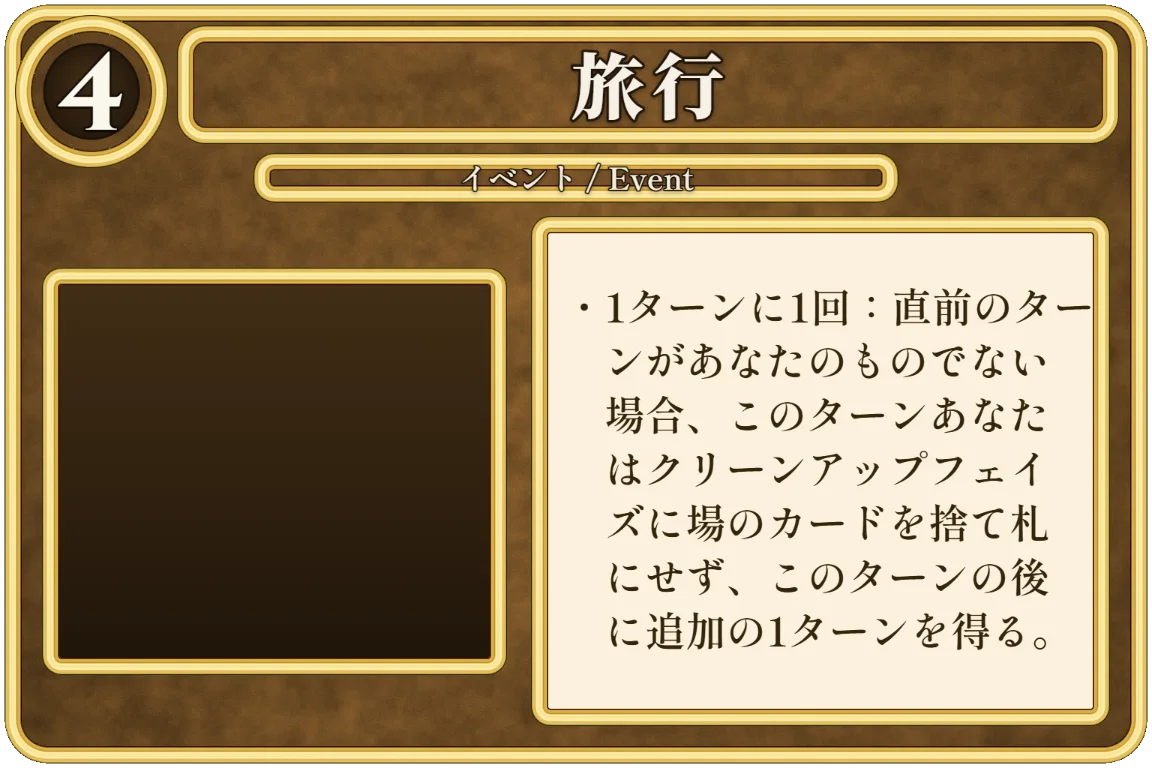
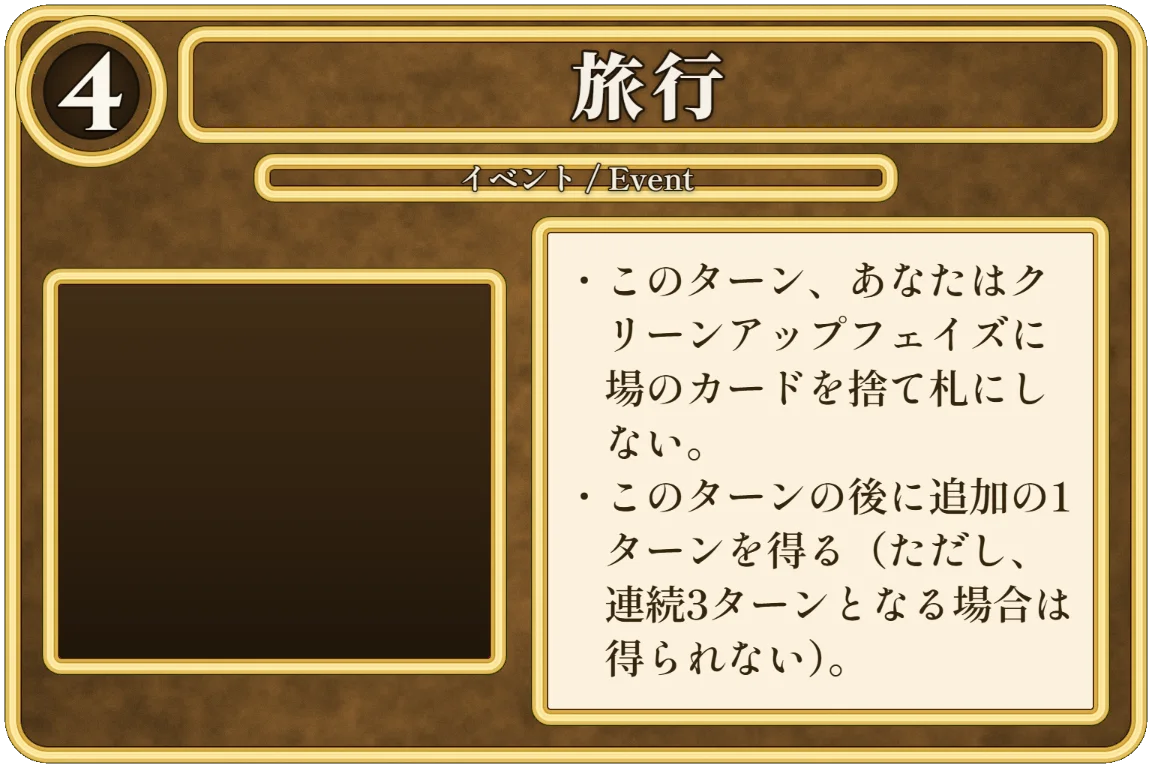
fix(plunder): 旅行(Journey)を2023エラッタ側に統一し、版の選択4件を確定として記録する
**2つのセッションが並行して同じリポジトリを触っていたため、`journey` の版が正反対に決定されていた**
（片方＝2022印刷版／片方＝2023エラッタ）。ユーザーがセッションを1本化し判断を一任したので、
一次資料を直読みで引き直したうえで **2023年9月の Extra turn errata 側**に確定する。

**根拠（この順で重い）**
1. **本アプリは同じ2023エラッタの `mission`（使節団）を既に採用済み**＝`js/engine.js` の
   `ONCE_PER_TURN_EVENTS` に `mission` が無い（§0-26）。**旅行は使節団の完全な同型**
   （イベント／`Once per turn:` が消えた／追加ターン）＝ここだけ旧版だと同じエラッタ内で挙動が割れる。
2. **決定D2（日本語文面は Dominion Online 訳で統一）と噛み合わない**＝日本語wiki（DO訳）の `旅行` は
   **エラッタ側の文面**なので、旧版を採ると「表示は新版・挙動は旧版」になりカードが嘘をつく。
3. **ユーザーは日本語版カードの現物を持っていない**（メモリ `no-physical-dominion-cards`）＝
   印刷物と一致させる実利が無く、実際に触れる公式デジタル（エラッタ側）に合わせるほうがよい。
4. 「3ターン連続不可」は engine に既にある（島民・航海）。旧版の「直前のターンがあなたのものでない場合」は
   engine に無い別機構＝旅行1枚のために新設することになる。
⚠ 反対材料（Print 欄が `Not printed yet`／wiki が `Unofficial FAQ (Post-2023 Errata)` と呼ぶ）も
`docs/research/plunder_rules.md` の D1 に残した。**反転は1行＋カタログ文＋webp 1枚**。

- `js/cards.js`：`journey` の text を DO 訳（エラッタ側）へ。コメントも「`ONCE_PER_TURN_EVENTS` に
  入れるのは `launch` の1枚だけ」に修正。**webp を焼き直し**＋`sw.js` v71→**v72**。
- `docs/research/plunder_rules.md`：冒頭を「要ユーザー確認5件（未決）」→**決定 D1〜D5** に置き換えて再生成。
- `PROGRESS.md`：§0-30 に決定4件と**並行セッション事故の経緯**（再発防止）を記録。
  §4 の journey 決定を差し替え。**「spoils 改名はユーザー未承認」という記述は事実誤認だったので訂正**
  （実際にはユーザーが選択肢から選んでいる。他方のセッションからそのやり取りが見えなかっただけ）。
- `KICKOFF.md`：次のタスクを**段階2＝P1（Loot の山の基盤）**に更新。`CLAUDE.md` も現状に追随。

検証＝`npm test` 全40スイート緑（exit 0・整合性5303・不変条件12）／`verify:e2e` 9/9（**webp 560/0**）。

Changed region(s): [[0.5312, 0.3438, 0.9375, 0.875]]

diff --git a/js/cards.js b/js/cards.js
@@ -2303,11 +2303,14 @@
        買う横型（`DOM.LANDSCAPES` 側）。**負債コスト・ポーション費用は1枚も無い＝すべてプレーンなコインのみ**。
        種別は15枚とも `Event` だけ（Attack でも Duration でもない＝堀では防げない／持続の予約を張らない）。
        ⚠ 英語id `plunder` は帝国の分割山カード「鹵獲品」で使用済みなので、プール名は **`plunderexp`**。
-       ⚠ `journey`（旅行）は **2022年12月の印刷版テキスト**を採用（2023年9月の Extra turn errata は
-          英語wiki の Print 欄が `Not printed yet`＝未印刷なので、royal_galley と同じ方針で採らない）。
-          ＝`Once per turn:` を持つので `ONCE_PER_TURN_EVENTS` に入れる側。
-       ⚠ 検証で追記（研究doc 第6章 §4-H）：`ONCE_PER_TURN_EVENTS` に入れるのは **`launch` と `journey` の2枚だけ**。
-          launch＝`"Once per turn" applies to the whole Event.`／journey＝2022版が `Once per turn:` を持つ。
+       ⚠ `journey`（旅行）は **2023年9月の Extra turn errata 側**を採用（決定 D1＝研究doc 冒頭）。
+          ＝`Once per turn:` の前置句は無く、「ただし連続3ターンとなる場合は得られない」を持つ。
+          根拠＝本アプリは**同じ2023エラッタの `mission`（使節団）を既に採用済み**（`ONCE_PER_TURN_EVENTS` に
+          `mission` が無い＝§0-26）で**旅行はその完全な同型**／**日本語文面は Dominion Online 訳で統一（D2）**
+          しており DO の `旅行` は**エラッタ側の文面**なので、旧版を採ると「表示は新版・挙動は旧版」になる。
+          **反転は1行**（`ONCE_PER_TURN_EVENTS` に journey を足し、この text を旧版へ戻す）。
+       ⚠ 検証で追記（研究doc 第6章 §4-H）：`ONCE_PER_TURN_EVENTS` に入れるのは **`launch` の1枚だけ**。
+          launch＝`"Once per turn" applies to the whole Event.`（journey はエラッタで前置句が消えたので入れない）。
           **`deliver` は入れてはいけない**＝Donald X. 明言 `Deliver doesn't have "once per turn," even though
           it does nothing when bought multiple times.`（＝何回でも買えて2枚目以降が空振り）。
           他の12枚も once per turn 表記なし＝同じリストに入れないこと。
@@ -2352,7 +2355,7 @@
     //    本文は研究doc §4-F の「旧テキスト（＝日本語の印刷版）」と逐語一致（＝2022版）。
     //    **「3ターン連続」の文言が入っていたらそれは 2023エラッタ＝誤り**（ここには無い＝正しい）。
     journey: { name: '旅行', nameEn: 'Journey', kind: 'event', expansion: 'plunderexp', cost: 4, debt: 0,
-      text: '1ターンに1回：直前のターンがあなたのものでない場合、このターンあなたはクリーンアップフェイズに場のカードを捨て札にせず、このターンの後に追加の1ターンを得る。' },
+      text: 'このターン、あなたはクリーンアップフェイズに場のカードを捨て札にしない。\nこのターンの後に追加の1ターンを得る（ただし、連続3ターンとなる場合は得られない）。' },
     // Trash 3 cards from your hand. Each other player with 5 or more cards in hand trashes one of them.
     // ⚠ 要確認: 日本語文面だけ Dominion Online 訳（＝日本語wiki）ではなく **印刷版の逐語**を採った。
     //    理由＝この1枚だけ日本語wiki 側の記載が拡張ページの一覧表の省略形（`手札3枚を廃棄する、手札を5枚以上持つ

diff --git a/sw.js b/sw.js
@@ -7,7 +7,7 @@
    - クロスオリジン（Google Fonts / WebSocket）は触らない。
    バージョンを上げると activate で旧キャッシュを全部捨てる。
    ============================================================ */
-const VERSION = 'v71';
+const VERSION = 'v72';
 const CACHE = 'dominion-' + VERSION;
 
 // オフラインに最低限必要なファイル（盤面サムネ含む・約1MB）

diff --git a/docs/research/plunder_rules.md b/docs/research/plunder_rules.md
@@ -4,7 +4,7 @@
 **カタログ（`js/cards.js`）と engine を書くときは、記憶ではなくこの文書を見ること。**
 
 - 発売＝**2022年12月19日**。**印刷は初版のみ（第2刷は無い）**＝2022年12月のテキストが現行。
-  機能エラッタは **Journey 1枚だけ**（2023年9月 Extra turn errata・**未印刷**）＝下記「要ユーザー確認」参照。
+  機能エラッタは **Journey 1枚だけ**（2023年9月 Extra turn errata・**未印刷**）＝**採用すると決定した**（下記 D1）。
 - 内訳＝**500枚**（RGG ルールブック p.2 逐語）＝王国 400（40種×10枚）＋**Loot 30（15種×2枚）**
   ＋ランダマイザー40＋**イベント15**＋**特性(Trait) 15**。
   → **実装対象は 85種**＝縦型（`DOM.CARDS`）55種（王国40＋Loot 15）／横型（`DOM.LANDSCAPES`）30種（イベント15＋特性15）。
@@ -62,9 +62,69 @@
 
 ---
 
-## ✅ この研究で下したユーザー決定
+## ✅ この研究で下した決定（2026-08-15）
 
-- **【2026-08-15・ユーザー決定】`spoils`（暗黒時代）の日本語名を、公式訳の「略奪品」へ改名する。**
+### D1. **旅行(Journey)は 2023年9月「Extra turn errata」側を採用する**（＝新しい版）
+現行テキスト＝`You don't discard cards from play in Clean-up this turn. Take an extra turn after this one (but not a 3rd turn in a row).`
+→ **`ONCE_PER_TURN_EVENTS` には登録しない**（`Once per turn:` の前置句はエラッタで消えた。
+このリストに入るのは **`launch` だけ**）。「3ターン連続にはできない」は
+**島民・航海と同じ既存の共通機構**（§0-29 A5）にそのまま乗せる。
+
+**根拠（この順で重い）**
+1. **本プロジェクトは同じ2023エラッタの `mission`（使節団）を既に採用済み**。
+   `js/engine.js` の `ONCE_PER_TURN_EVENTS` は `['alms','borrow','save','pilgrimage','desperation']` で
+   **`mission` が入っていない**（§0-26＝「現行エラッタで前置句が消えた」として外した）。
+   **旅行は使節団の完全な同型**（どちらもイベント／`Once per turn:` が消えた／追加ターン）。
+   ここだけ旧版にすると**同じエラッタの中で挙動が割れる**。
+2. **決定 D2（日本語文面は Dominion Online 訳で統一）と整合しない**。
+   日本語wiki（＝DO訳）の `旅行` は**エラッタ側の文面**
+   （`このターンのクリーンアップフェイズに場のカードを捨て札に置かない／その後追加ターンを得る
+   (ただし、連続3ターンとなる場合は得られない)`）。
+   2022印刷版を採ると**「表示は新版・挙動は旧版」**になり、カードがプレイヤーに嘘をつく。
+3. **ユーザーは日本語版カードの現物を持っていない**（メモリ `no-physical-dominion-cards`）＝
+   「印刷物と一致させる」ことに実利が無く、**実際に触れる公式デジタル（＝エラッタ側）に合わせるほうが良い**。
+4. **「3ターン連続不可」は engine に既にある**（島民・航海）。旧版の「直前のターンがあなたのものでない場合」は
+   **engine に無い別機構**なので、旅行1枚のために新設することになる。
+
+⚠ **反対材料も残しておく**＝英語wiki の `Versions` 表で**エラッタ行の Print 欄は `Not printed yet`**（未印刷）で、
+wiki はこの版のFAQ節を **`Unofficial FAQ (Post-2023 Errata)`** と呼んでいる。
+**§0-29 A4 の royal_galley では「未印刷のアナウンスは採らない」と決めた**＝形式だけ見ると逆の判断になる。
+ただし royal_galley は *announce* のみで**公式エラッタ文書にも wiki の `Versions` 表にも行が無かった**のに対し、
+旅行は**正式なエラッタ行がある**（`Changes = Never allow more than two turns in a row. / Announced = September 2023`）。
+**反転は1行**（`ONCE_PER_TURN_EVENTS` に `journey` を足し、カタログ文と条件節を旧版に戻す）。
+
+### D2. **日本語のカード文面は Dominion Online 訳（日本語wiki 掲載）で85種を統一する**
+- **印刷版の逐語を85種ぶん揃える手段が無い**（英語wiki に Japanese 行があるのは Crew / Invasion / Siren / Taskmaster の
+  4枚だけ・215×344px の低解像度・**掲載テキストに誤字**〈`廃楽`／`緩得`〉）。
+  4枚だけ印刷版に寄せると**不統一＋誤字混入**になるので採らない。
+- **日本語の「名前」はどちらの資料でも一致**しているので、名前の確度は高い（＝ここは安心して確定してよい）。
+- ⚠ **将来、実物カードが手に入ったら差し替える**（差分は表記のみ・機能差はゼロ）。
+
+### D3. **港の村(Harbor Village)は、習性(Way)由来の +$ ではボーナスを「得ない」**
+- 英語wiki の `Official FAQ` は `Using a Way ... does get you the bonus.` と書いているが、
+  **これは2022年の公式FAQ文書の再録**であり、**2025年2月の移動動物園エラッタより前の文**。
+- **現行の `Way` ページの逐語**＝`When you play an Action card, **instead of doing what is printed on the Action card**,
+  you may do what is printed on a Way` ＝**+$ を出しているのは習性であってアクションカードではない**。
+- **同じ FAQ の原則がそれを支持する**＝`This only cares if **the Action itself** gave you +[$], not if you otherwise got
+  +[$] due to playing it (such as due to Training ... or The Forest's Gift ...).`
+  ＝山トークンや祝福で得た +$ を除外するのと**同じ理屈**で、習性由来も除外されるのが自然。
+- **本プロジェクトは2025年2月エラッタを既に採用済み**（§0-25/§0-26 で戦車競走・使節団・儀式を修正）。
+  日本語wiki も同エラッタ＋2025年3月の Donald X. の Discord 回答を出典に「得られない」と明記している。
+- ⚠ **mix-all でしか到達しない**（移動動物園の習性＋略奪の港の村）。**反転は1行**。
+
+### D4. **旗艦(Flagship)は持続を再演したら場に残す（例外を設けない）**
+- **一般則＝残る**（RGG ルールブック逐語＋現行 `Plunder (expansion)` の追加ルール＋`Duration` ページ）。
+  逐語＝`if a Duration card is played extra times by a card such as [Throne Room, Scepter, Mastermind, Specialist,
+  Flagship, or Daimyo], that card also stays in play until the Duration card is discarded`。
+  **同盟の専門家(Specialist)と同じ実装**にできる。
+- ⚠ **これは §0-25/§0-28 の「玉座×持続では玉座が残らない」という既存の許容簡略化を、旗艦では採らない**という意味。
+- **「はみだし者経由だけは残らない」という脚注付き裁定は、2025-09-11 の版で英語wikiから削除済み**＝
+  **現行資料に例外が無いので例外を設けない**（本プロジェクトの「現行に寄せる」方針どおり）。
+  ⚠ 削除が「誤りだったから」か「2025年9月の一括編集の巻き添え」かは一次資料から断定できない。
+  理屈の上では例外に分がある（命令が使わせる持続は**サプライから動かない＝一度も場に入らない**ので追跡が成立しない）。
+  **必要なら分岐1つで例外を足せる。**
+
+### D5. **【ユーザー決定】`spoils`（暗黒時代）の日本語名を、公式訳の「略奪品」へ改名する。**
   → **「戦利品」を Loot（略奪）に明け渡す**＝両方が公式どおりになる。
   影響＝`js/cards.js` の4箇所（`marauder` 494 / `bandit_camp` 530 / `pillage` 546 / `spoils` 601-602 の
   カード文中の「戦利品置き場」と `spoils` の name）＋`js/engine.js` のログ文字列＋**webp 4枚の再生成**（このPCのみ）
@@ -163,7 +223,7 @@ That thing could happen the same turn, or many turns later; these may sit in pla
 → **常設方針＋自動選択に倒す**のが既定路線（§0-29 で確立した `p.favorShuffle` 型）。**段階2の最初に決めること。**
 
 ### 9. 旅行(Journey)＝**版の選択が要る**＋**片付けで場のカードを捨てない**という前例の無い片付け
-- **版＝要ユーザー確認**（下記「要ユーザー確認」参照）。
+- **版＝2023 Extra turn errata を採用**（決定 D1）。
 - `any effects that care about cards that you discard from play this turn (e.g. Improve and Scheme) will do nothing.
   However, some effects trigger at the start of Clean-up (e.g. Alchemist and Walled Village), and they trigger normally.`
   → **策謀／増築／錬金術師／城壁のある村／カエルの習性／沿岸の避難港**が全部この経路にいる。
@@ -189,7 +249,7 @@ That thing could happen the same turn, or many turns later; these may sit in pla
 - **持続を再演した場合、旗艦は「その持続が場から捨てられるまで」場に残る**（RGG ルールブック逐語＋現行 wiki）。
   ＝**§0-25/§0-28 の「玉座×持続では玉座が残らない」という本アプリの許容簡略化と正面から衝突する。**
   ⚠ **はみだし者が使った持続を旗艦が再演した場合だけ**「旗艦は残らない」という裁定が
-  2023〜2025年9月の英語wikiに脚注付きで存在し、**2025-09-11 の版で削除されている**＝**要ユーザー確認**。
+  2023〜2025年9月の英語wikiに脚注付きで存在したが**2025-09-11 の版で削除**＝**決定 D4＝例外を設けない**。
 
 ### 11c. 現場監督(Taskmaster)＝**「能力を繰り返す」は「アクションの使用」ではない**
 日本語wiki `現場監督 > 詳細なルール` 逐語＝共謀者に数えない／「アクションの使用後」が来ない／
@@ -241,15 +301,19 @@ That thing could happen the same turn, or many turns later; these may sit in pla
 
 ---
 
-## ⚠ 要ユーザー確認（実装前に人間が決めること。研究では決められない）
+## ⚠ 版の選択・裁定が割れた論点（**すべて決着済み。上の「この研究で下した決定」を見ること**）
 
-| # | 項目 | 内容 | 現時点の状態 |
+| # | 項目 | 決定 | 反転コスト |
 |---|---|---|---|
-| 1 | **`journey`（旅行）の版** | **A＝2022印刷版**（`Once per turn:` あり・「直前が自分の手番でない」条件つき）か、**B＝2023年9月 Extra turn errata**（条件なし・「3ターン連続不可」）か。**エラッタは未印刷**（`Not printed yet`）。本プロジェクトは **royal_galley で「未印刷のエラッタは採らない」と決めた**前例がある一方、**同盟の Island Folk / Voyage は同じ2023エラッタを（第2刷で印刷済みなので）採用済み**。**版によって `ONCE_PER_TURN_EVENTS` への登録可否が反転する。** | **決定済（2026-08-15・§4 参照）** |
-| 2 | **日本語カード文面をどの版に合わせるか** | 本書の和文は **Dominion Online 訳**（日本語wiki 掲載）。印刷版と少なくとも8枚で食い違う（**機能差はゼロ・表記のみ**）。**ただし印刷版の逐語を85種ぶん揃える手段が無い**（英語wiki の Japanese 行は4枚だけ＋誤字あり）。<br>**案A＝Dominion Online 訳で85種を統一（推奨）**／案B＝4枚だけ印刷版に寄せる（**不統一＋誤字混入なので勧めない**）。**日本語名はどちらでも同じ**なので名前だけ先に確定して進めてよい。 | **未決（案A推奨）** |
-| 5 | **旗艦(Flagship)がはみだし者の使った持続を再演したとき、旗艦は場に残るか** | **一般則＝残る**（RGG ルールブック逐語・現行wiki・`Duration` ページ）。**しかし「はみだし者経由だけは残らない」という脚注付き裁定が2023〜2025年9月の英語wikiに存在し、2025-09-11 の版で削除**されている（削除が「誤りだったから」か「一括編集の巻き添え」か一次資料では断定できない）。<br>**理屈は通る**（はみだし者が使う持続はサプライから動かない＝一度も場に入らないので追跡が成立しない）。<br>**推奨＝一般則（残る）で実装し、はみだし者/大君主/船長が使った持続を再演した場合だけ場に残さない**（両方の資料に矛盾しない安全側）。 | **決定済（2026-08-15・§4 参照）** |
-| 3 | ~~`spoils` の日本語名~~ | ~~「戦利品」のままか「略奪品」へ戻すか~~ | ✅ **決定済（2026-08-15）＝「略奪品」へ改名** |
-| 4 | **港の村(Harbor Village)×習性(Way)由来の +$** | ボーナスを得るか。**一次資料が真っ向から割れている**（英語wiki Official FAQ＝得る／日本語wiki＝2025年2月の移動動物園エラッタ＋2025年3月の Donald X. の Discord 回答を出典に**得ない**）。**mix-all 限定の到達**。 | **決定済（2026-08-15・§4 参照）** |
+| 1 | `journey`（旅行）の版 | ✅ **D1＝2023 Extra turn errata を採用**（`ONCE_PER_TURN_EVENTS` に登録するのは `launch` だけ・3ターン連続不可） | **1行＋カタログ文** |
+| 2 | 日本語カード文面の版 | ✅ **D2＝Dominion Online 訳で85種統一**（名前は両資料で一致＝確度は高い） | カタログ差し替え |
+| 3 | `spoils` の日本語名 | ✅ **D5＝「略奪品」へ改名（実施済み・`ea0c091`）** | 実施済み |
+| 4 | 港の村×習性(Way)由来の +$ | ✅ **D3＝得ない**（現行の `Way` の逐語＋2025年2月エラッタ側。mix-all 限定） | **1行** |
+| 5 | 旗艦×はみだし者で旗艦が場に残るか | ✅ **D4＝一般則どおり常に残す（例外を設けない）** | 分岐1つ |
+
+**⚠ 各章の本文には「要ユーザー確認」と書かれたまま残っている箇所がある**（章は調査時点のスナップショット）。
+**上の決定が優先**。章の記述は「なぜ割れていたか」の根拠として読むこと。
+**残る未確認はすべて実装に効かないもの**（印刷カードの改行位置・イラストレーター・特性14種の印刷版和文 など）。
 
 ---
 

diff --git a/CLAUDE.md b/CLAUDE.md
@@ -9,7 +9,8 @@
   （基本・陰謀・海辺・錬金術・繁栄・収穫祭・ギルド・異郷・暗黒時代・冒険・帝国・ルネサンス・移動動物園・夜想曲・**同盟**
    ＋プロモ／新プロモ。横型＝イベント・ランドマーク・プロジェクト・アーティファクト・習性・祝福/呪詛/状態・同盟カード）。
   拡張を自由に混ぜる **mix-all** もある。**残りは 略奪／日の出づる国 の2拡張**
-  （**略奪は段階0＝公式ルール研究まで完了**＝正本 `docs/research/plunder_rules.md`。カタログ・画像はまだ無い）。
+  （**略奪は段階0＝研究＋段階1＝カタログ85種＋webp まで完了**＝正本 `docs/research/plunder_rules.md`。
+  `CARD_SETS` 未参照なのでまだ実プレイには出ない）。
   最新の正確な状況は必ず @PROGRESS.md を見ること。
 - 拡張を「壊さず」増やせる単一ソース設計と、テストで守られた堅牢性を維持する。
 
